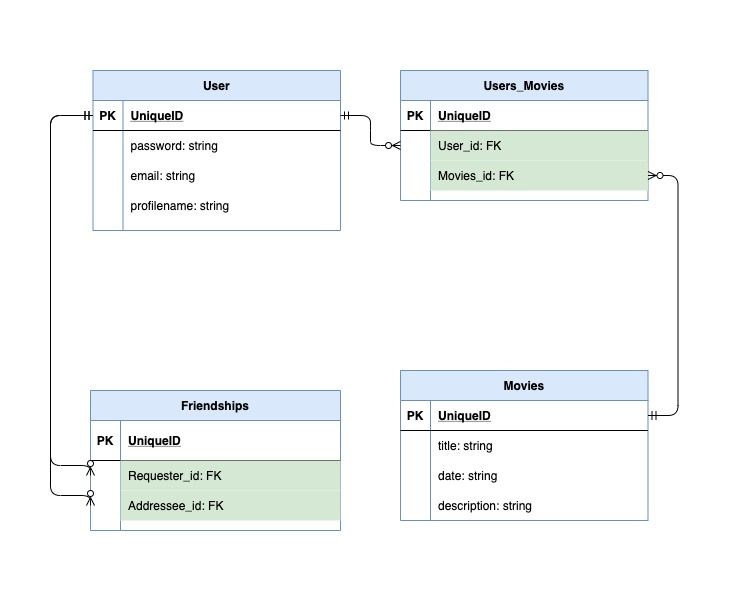
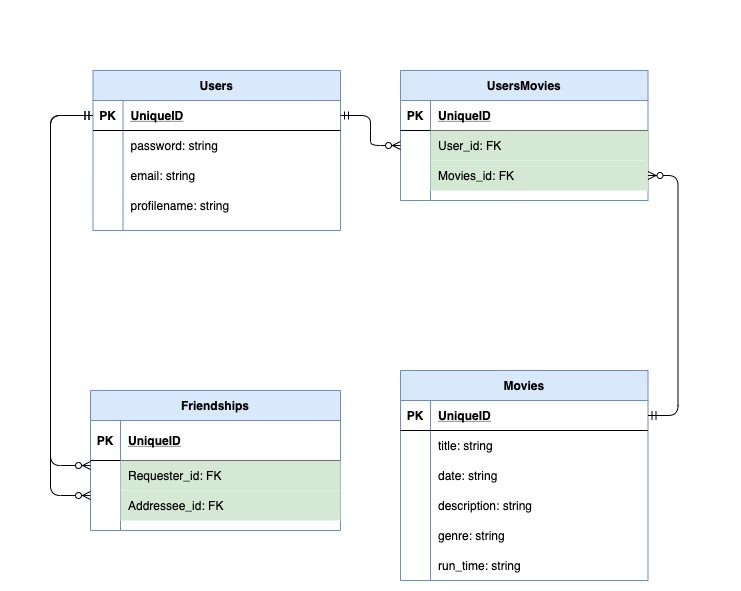
ERD edited and db:create db:migrate

diff --git a/db/schema.rb b/db/schema.rb
@@ -1,0 +1,58 @@
+# This file is auto-generated from the current state of the database. Instead
+# of editing this file, please use the migrations feature of Active Record to
+# incrementally modify your database, and then regenerate this schema definition.
+#
+# This file is the source Rails uses to define your schema when running `rails
+# db:schema:load`. When creating a new database, `rails db:schema:load` tends to
+# be faster and is potentially less error prone than running all of your
+# migrations from scratch. Old migrations may fail to apply correctly if those
+# migrations use external dependencies or application code.
+#
+# It's strongly recommended that you check this file into your version control system.
+
+ActiveRecord::Schema.define(version: 2021_01_21_042158) do
+
+  # These are extensions that must be enabled in order to support this database
+  enable_extension "plpgsql"
+
+  create_table "friendships", force: :cascade do |t|
+    t.bigint "requester_id", null: false
+    t.bigint "addressee_id", null: false
+    t.datetime "created_at", precision: 6, null: false
+    t.datetime "updated_at", precision: 6, null: false
+    t.index ["addressee_id"], name: "index_friendships_on_addressee_id"
+    t.index ["requester_id"], name: "index_friendships_on_requester_id"
+  end
+
+  create_table "movies", force: :cascade do |t|
+    t.string "title"
+    t.string "date"
+    t.string "description"
+    t.string "genre"
+    t.string "run_time"
+    t.datetime "created_at", precision: 6, null: false
+    t.datetime "updated_at", precision: 6, null: false
+  end
+
+  create_table "users", force: :cascade do |t|
+    t.string "password"
+    t.string "email"
+    t.string "profile_name"
+    t.datetime "created_at", precision: 6, null: false
+    t.datetime "updated_at", precision: 6, null: false
+  end
+
+  create_table "users_movies", force: :cascade do |t|
+    t.bigint "user_id", null: false
+    t.bigint "movie_id", null: false
+    t.datetime "created_at", precision: 6, null: false
+    t.datetime "updated_at", precision: 6, null: false
+    t.index ["movie_id"], name: "index_users_movies_on_movie_id"
+    t.index ["user_id"], name: "index_users_movies_on_user_id"
+  end
+
+  add_foreign_key "friendships", "users", column: "addressee_id"
+  add_foreign_key "friendships", "users", column: "requester_id"
+  add_foreign_key "users_movies", "movies"
+  add_foreign_key "users_movies", "users"
+end
